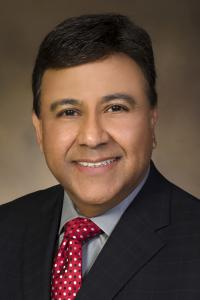
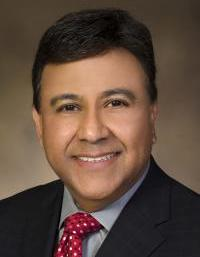
adjust images

diff --git a/index.html b/index.html
@@ -112,8 +112,8 @@
 	</div>
 	<div class="row col-lg-10 mx-auto" align="left">
 		<div class="col-xs-3 col-sm-3 col-md-3 col-xlg-3"><strong>8:15 AM - 9:00 AM</strong></div>
-		<div class="col-xs-9 col-sm-9 col-md-9 col-xlg-9"><strong>Opening Remarks: Dr. John C Criscione M.D. Ph.D.</strong>
-		<img src="img/criscone_web.jpg" alt="Dr Criscione" height="100"></div>
+		<div class="col-xs-9 col-sm-9 col-md-9 col-xlg-9"><strong>Opening Remarks: Dr. John C Criscione M.D. Ph.D.</strong><br>
+		<img src="img/criscone_web.jpg" alt="Dr Criscione" height="200"></div>
 	</div>
 	<div class="row col-lg-10 mx-auto" align="left">
 		<div class="col-xs-3 col-sm-3 col-md-3 col-xlg-3"><strong>9:00 AM - 10:15 AM</strong></div>
@@ -126,8 +126,8 @@
 	</div>
 	<div class="row col-lg-10 mx-auto" align="left">
 		<div class="col-xs-3 col-sm-3 col-md-3 col-xlg-3"><strong>10:30 AM - 12:00 PM</strong></div>
-		<div class="col-xs-9 col-sm-9 col-md-9 col-xlg-9"><strong>Keynote: Dr. Kenneth S Ramos M.D. Ph.D. PharmB</strong>
-			<img src="img/kenneth_ramos_4x6.jpg" alt="Dr Ramos" height="100">
+		<div class="col-xs-9 col-sm-9 col-md-9 col-xlg-9"><strong>Keynote: Dr. Kenneth S Ramos M.D. Ph.D. PharmB</strong><br>
+			<img src="img/kenneth_ramos_4x6.jpg" alt="Dr Ramos" height="200">
 		</div>
 	</div>
 	<div class="row col-lg-10 mx-auto" align="left">
